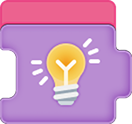
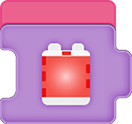
0515 led1 이미지 추가(block53.png) & puzzle_page.dart 코드 수정

Changed region(s): [[0.2121, 0.2903, 0.7576, 0.871]]

diff --git a/lib/puzzle_page.dart b/lib/puzzle_page.dart
@@ -81,7 +81,7 @@ class _PuzzlePageState extends State<PuzzlePage> {
         case 5:
           return 14;
         case 6:
-          return 44;
+          return 45;
         default:
           return 0;
       }
@@ -417,7 +417,7 @@ class _PuzzlePageState extends State<PuzzlePage> {
 
                       if (connectedImages.first == "images/puzzle/block1.png" && connectedImages.last == "images/puzzle/block2.png") {
                         if (currentImage != null && currentImage.blockIndex == 2) {
-                          List<int> allowedNumbers = [3, 5, 6, 10, 11, 12, 22, 36, 38, 39, 40, 41, 42, 43, 44, 45, 46, 48, 49, 53, 54, 64, 78];
+                          List<int> allowedNumbers = [3, 5, 6, 10, 11, 12, 22, 36, 38, 39, 40, 41, 42, 43, 44, 45, 46, 48, 49, 53, 54, 55,  65, 79];
 
                           List<int> blockNumbers = connectedImages.sublist(1, connectedImages.length - 1).map((path) {
                             return int.parse(path.replaceAll(RegExp(r'\D'), ''));
@@ -720,6 +720,7 @@ class DraggableImage {
       77: {'left': Offset(16, 50), 'right': Offset(132, 50), },
       78: {'left': Offset(16, 50), 'right': Offset(132, 50), },
       79: {'left': Offset(16, 50), 'right': Offset(132, 50), },
+      80: {'left': Offset(16, 50), 'right': Offset(132, 50), },
 
     }[index]!;
   }
